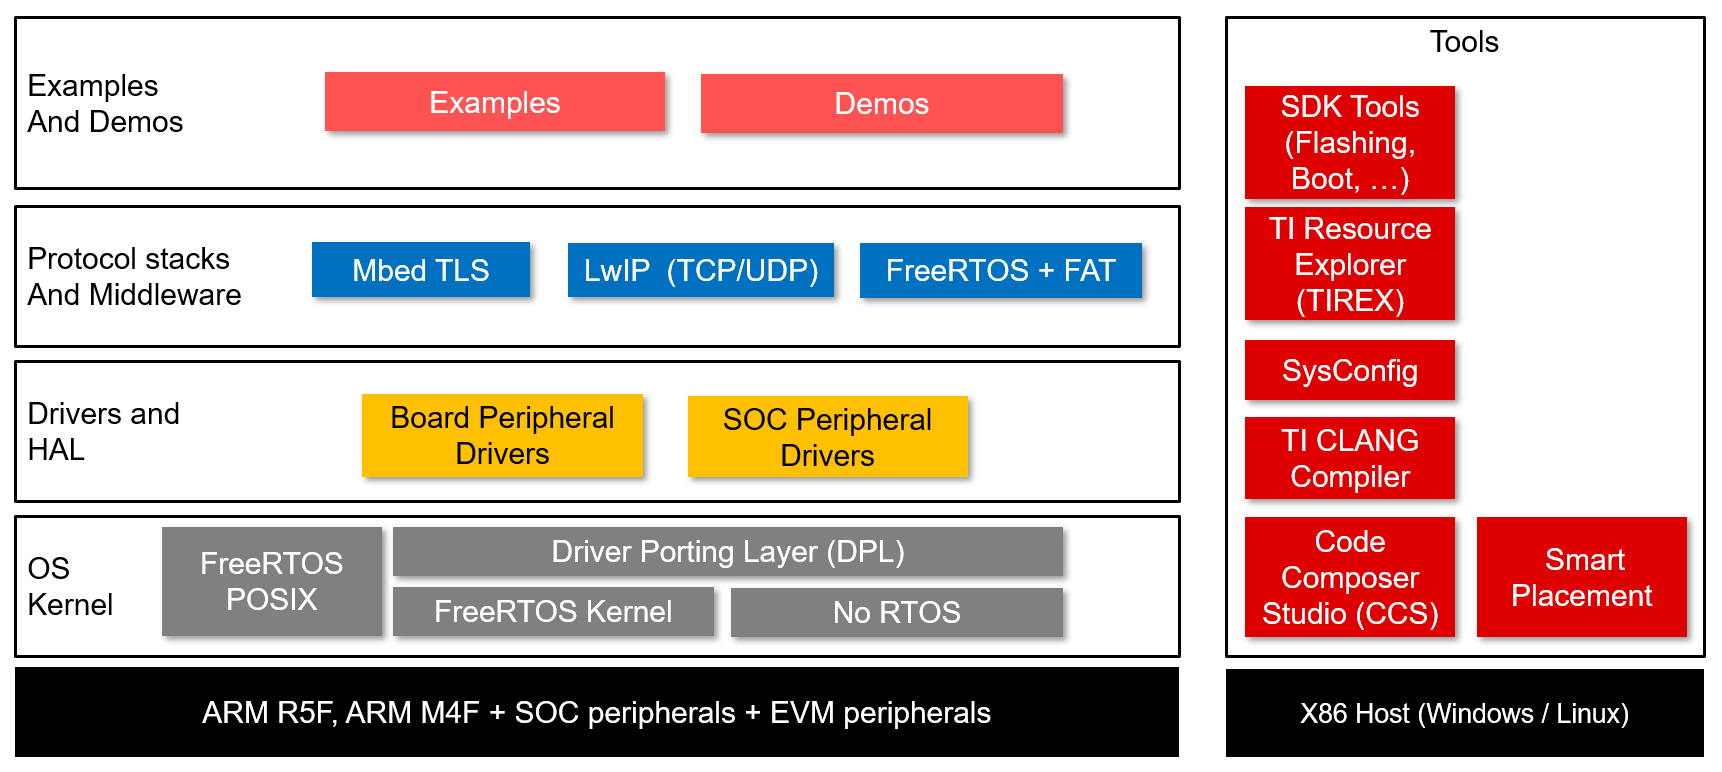
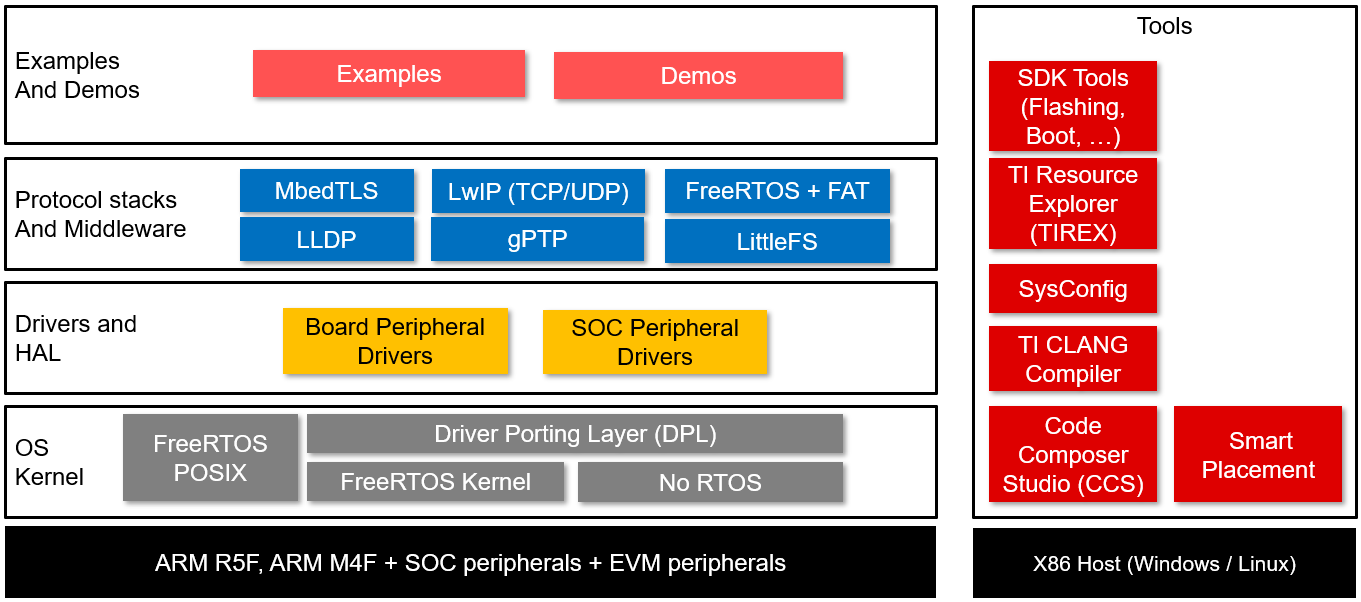
am26x: docs: update block diagrams
- add am261x SW block diagram
- update am263x/am263px SW block diagrams

Fixes: MCUSDK-13236

Changed region(s): [[0.0, 0.0, 1.0, 1.0], [0.1852, 0.0598, 0.6481, 0.1794]]

diff --git a/docs_src/docs/api_guide/device/am261x/main_page.md b/docs_src/docs/api_guide/device/am261x/main_page.md
@@ -12,8 +12,8 @@ To get started, see \ref GETTING_STARTED
 
 Given below is a block diagram of the SW modules in this SDK,
 
-\imageStyle{block_diagram_am263px.png,width:70%}
-\image html block_diagram_am263px.png "Software Block Diagram"
+\imageStyle{block_diagram_am261x.png,width:70%}
+\image html block_diagram_am261x.png "Software Block Diagram"
 
 The main software components in the block diagram are described below
 